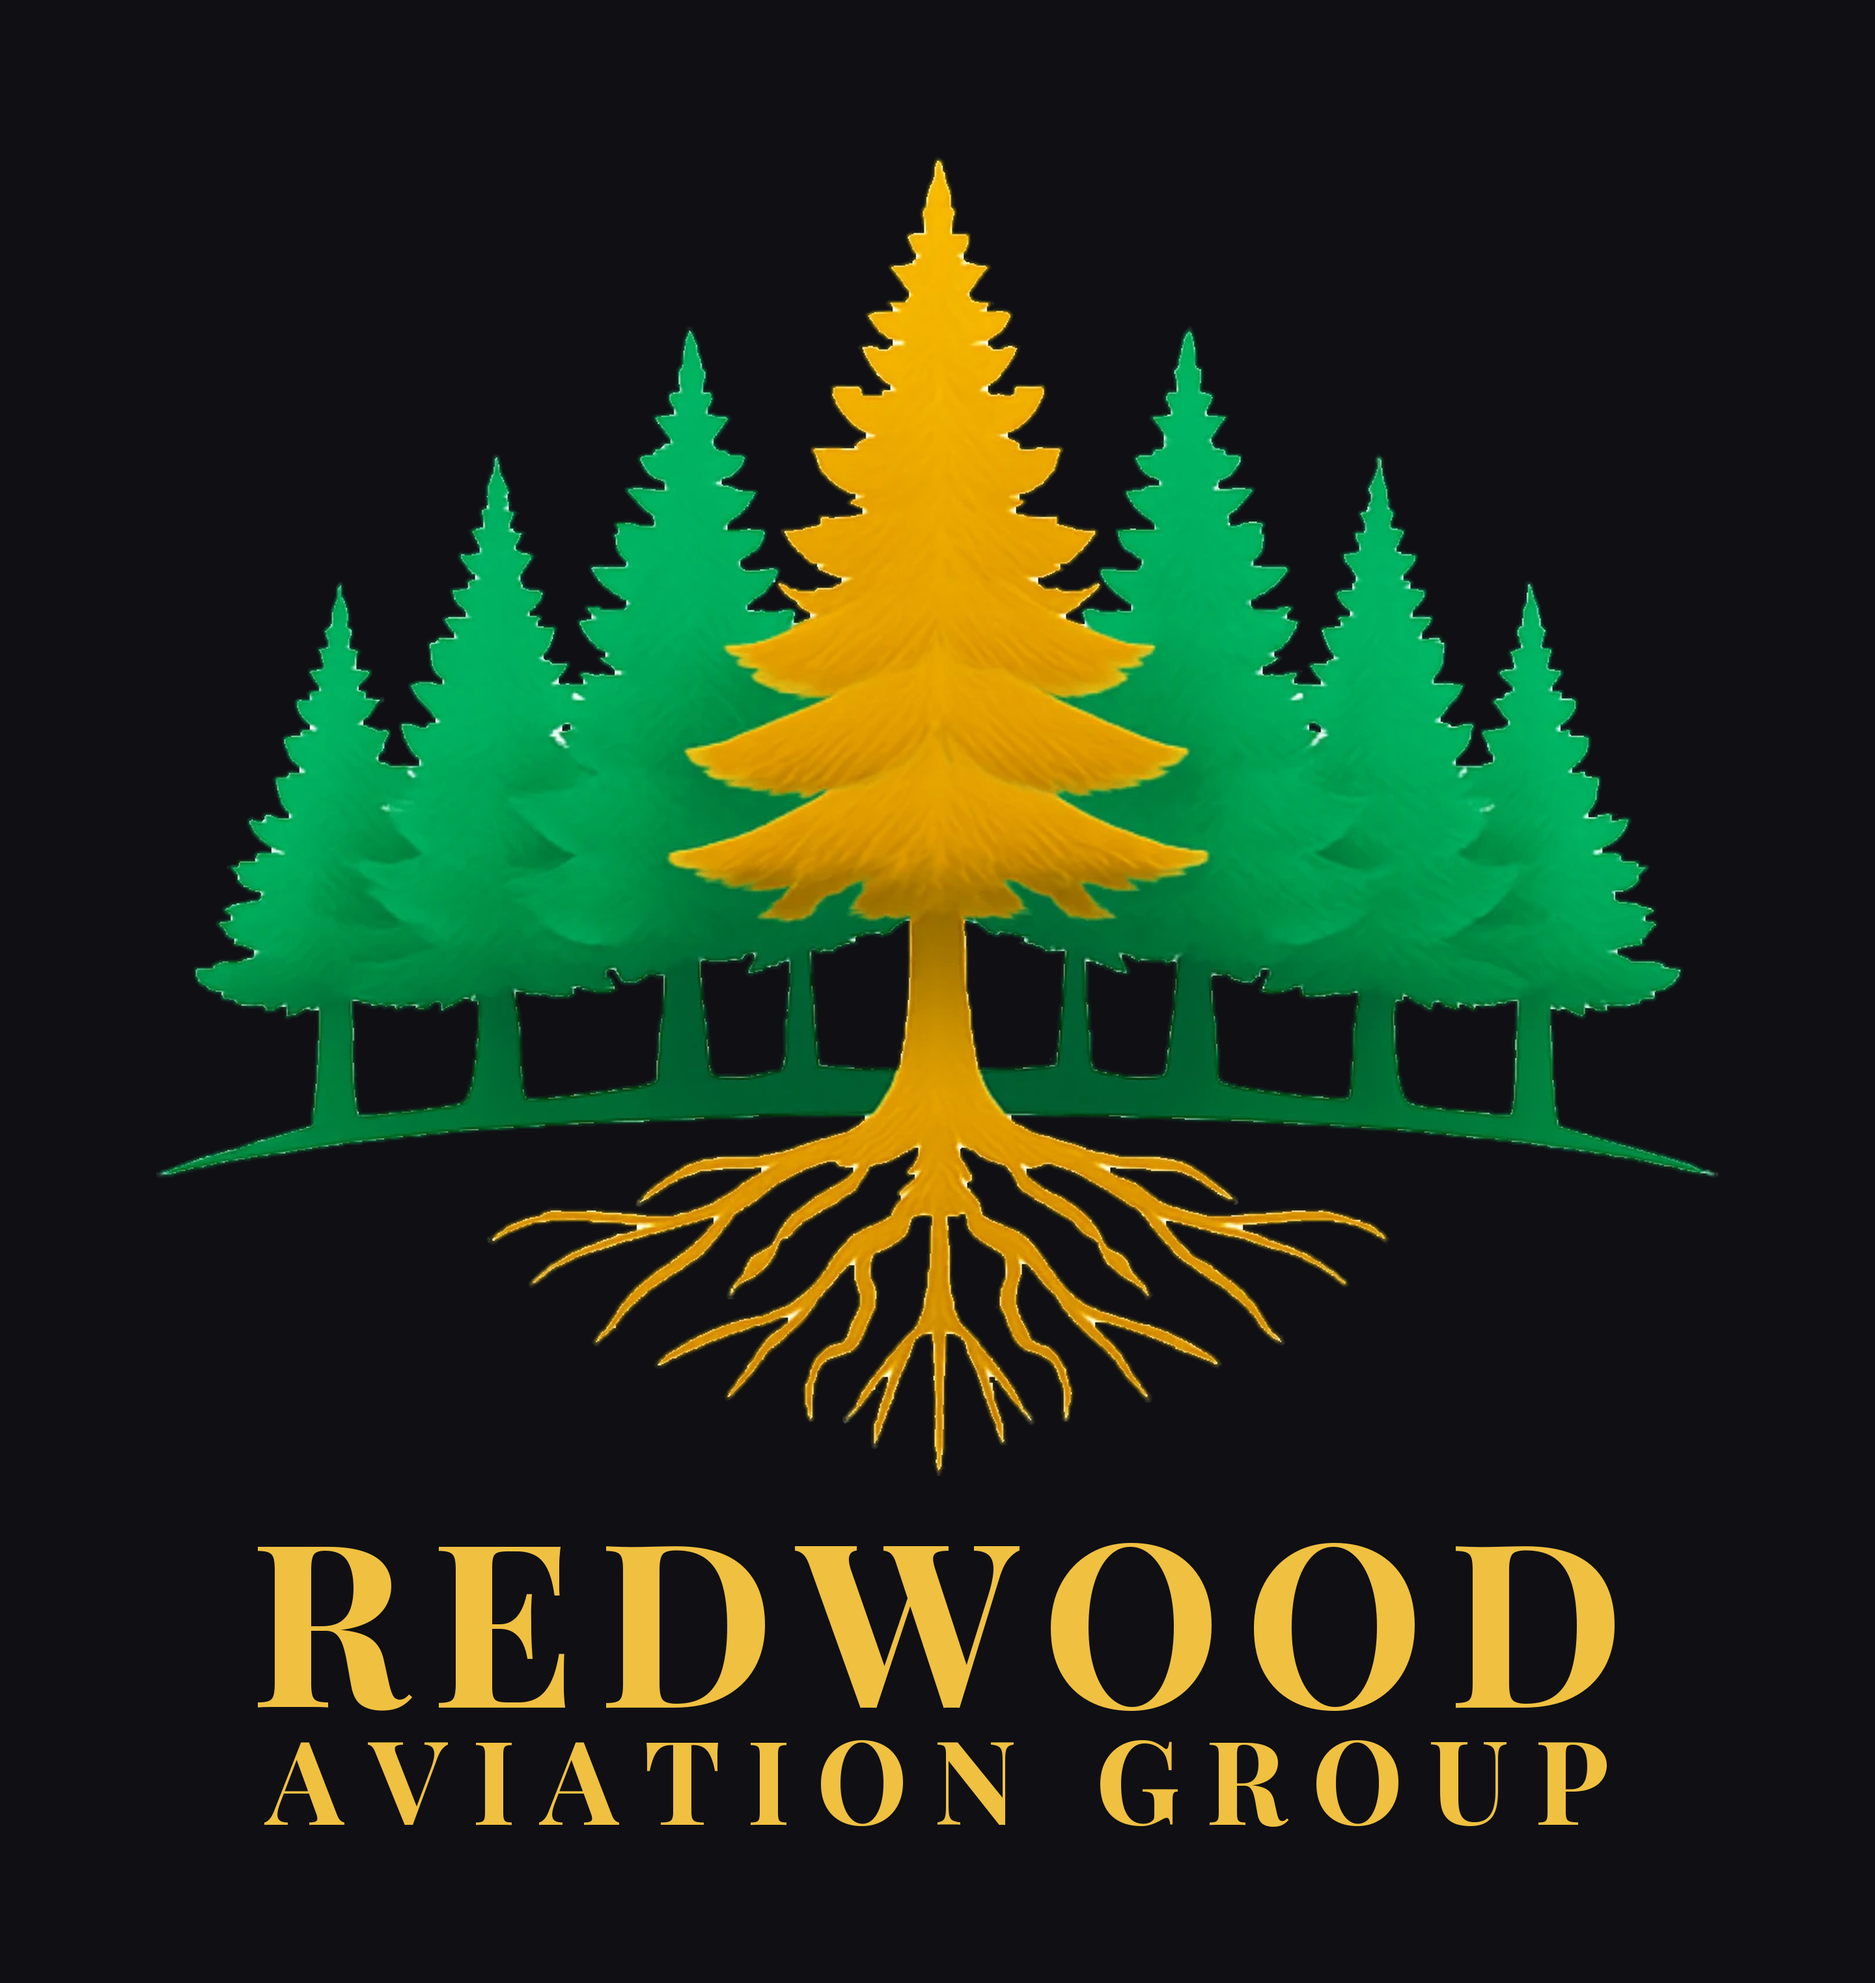
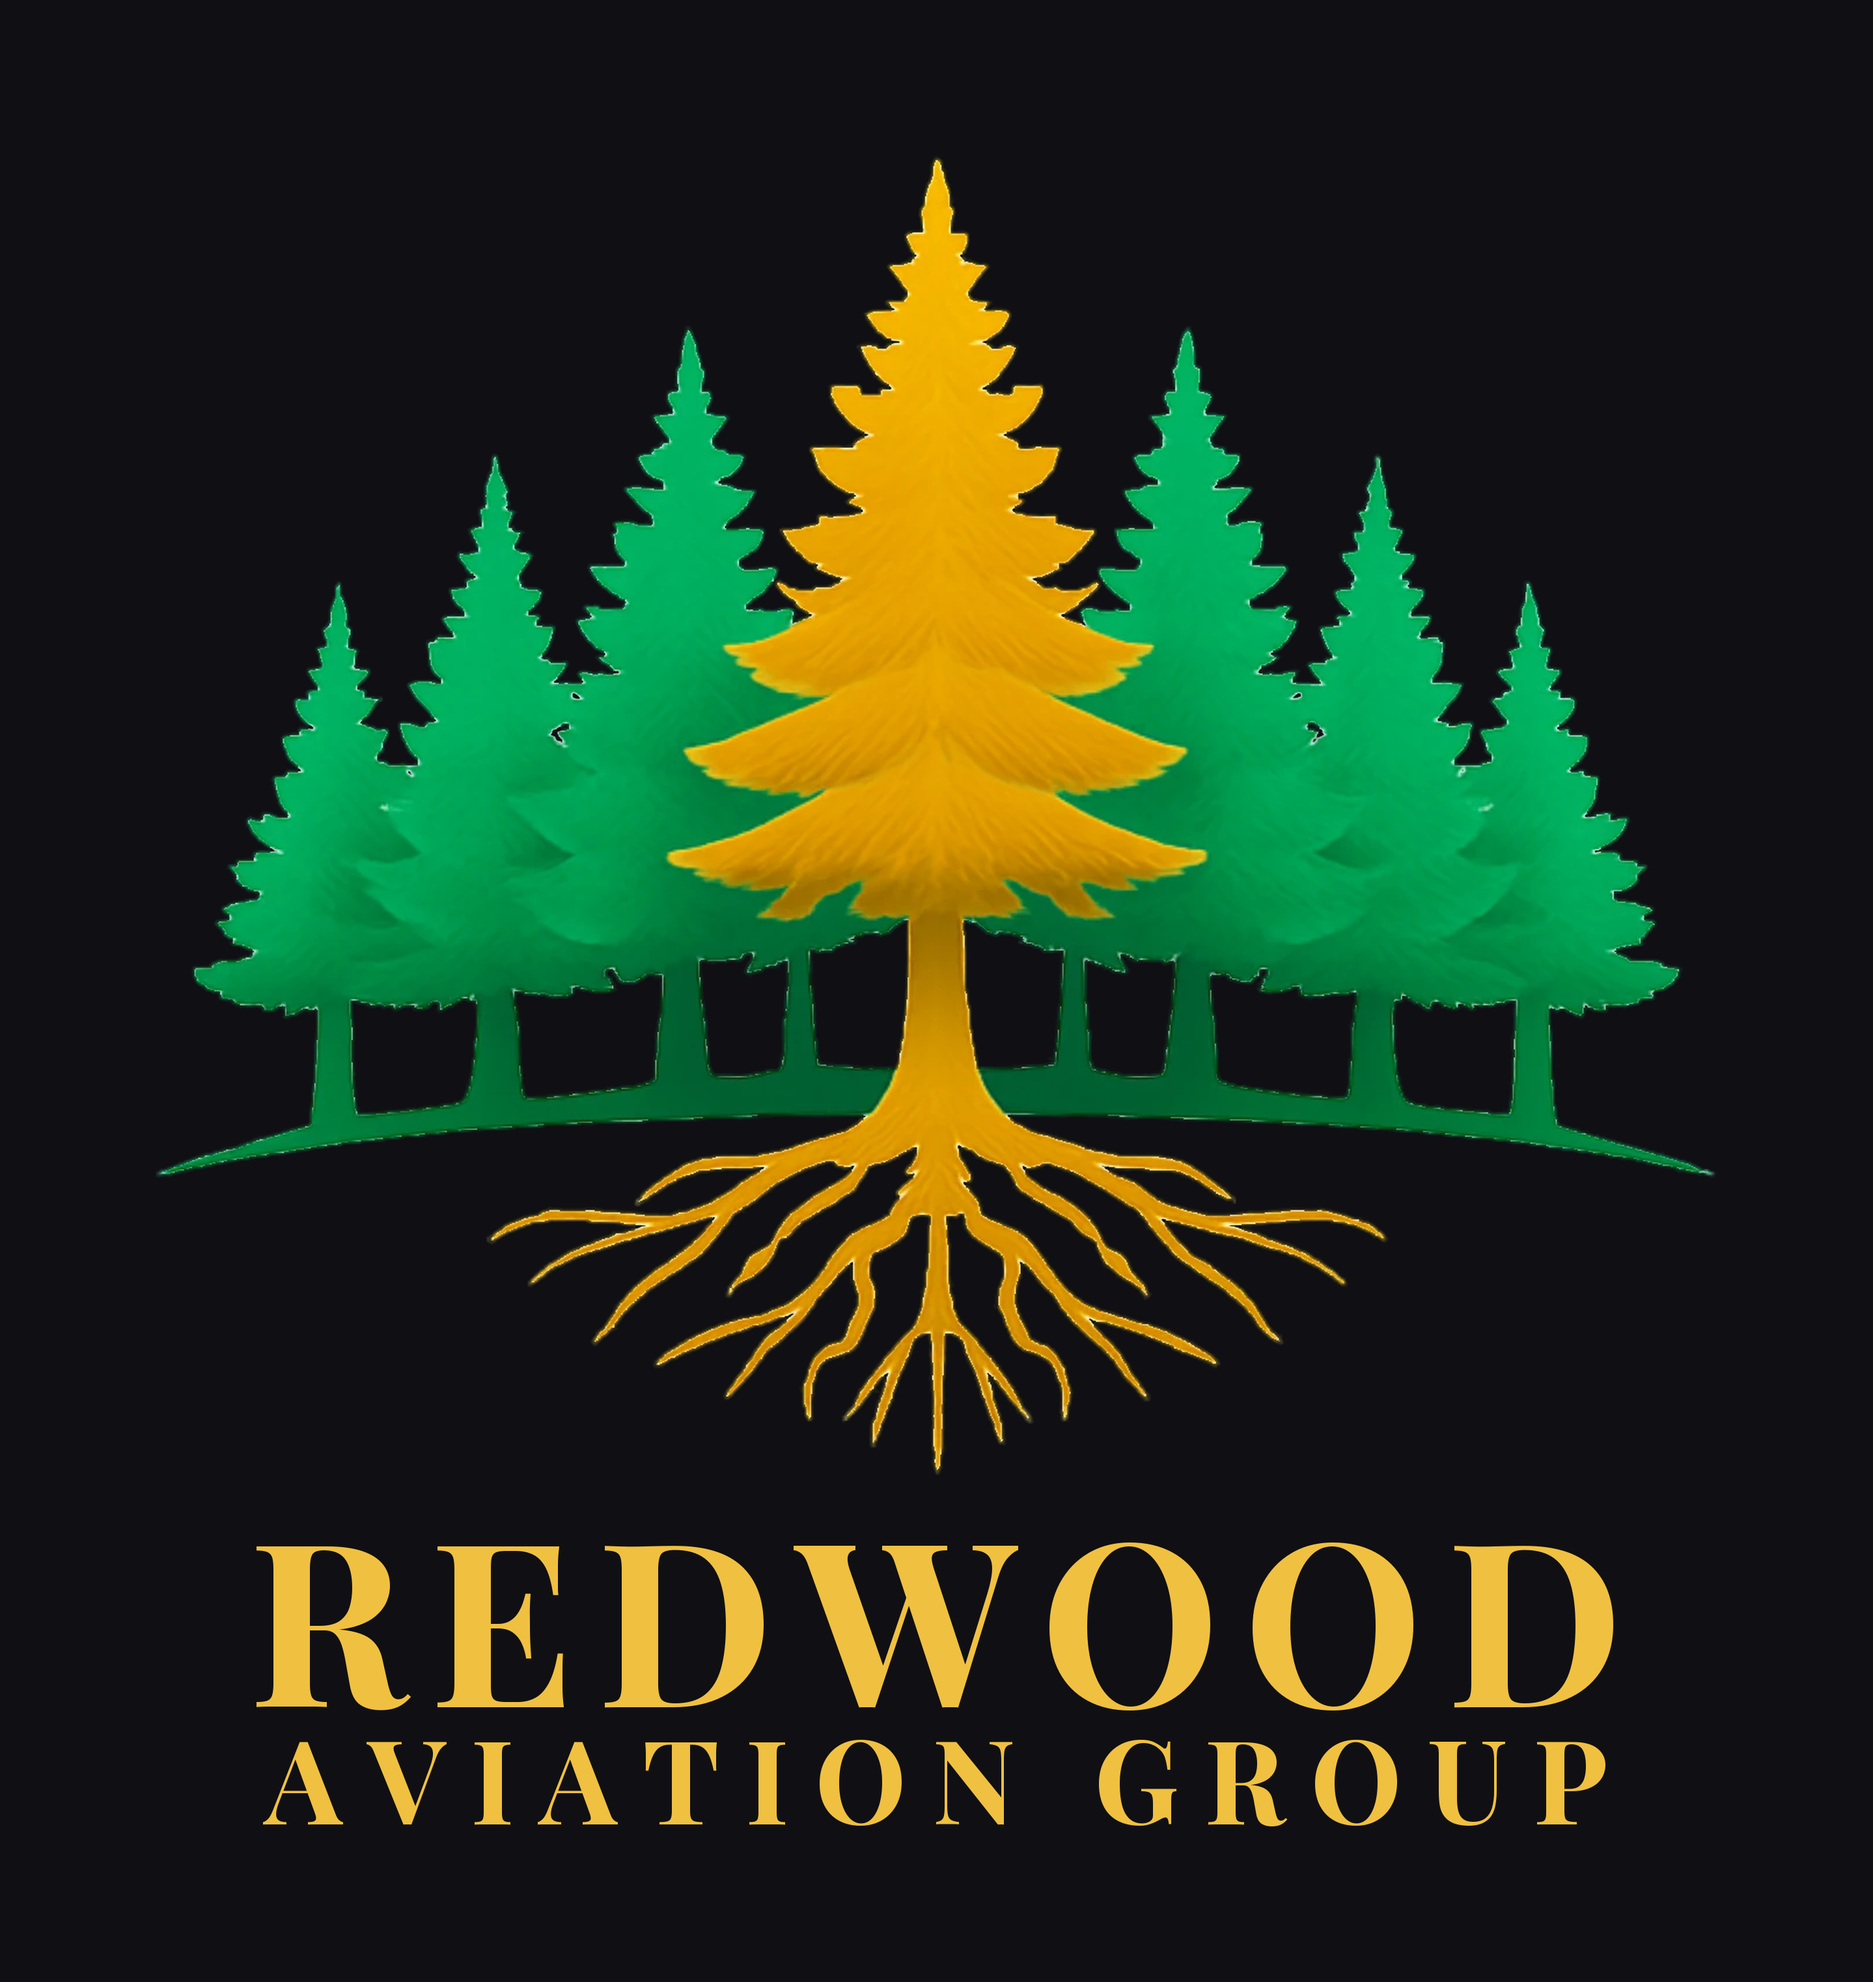
Fix white specks on branch edges; capitalize Redwoodaviationgroup.com
The background removal left 166 pure-white pixels at full opacity along branch
edges, plus ~700 washed-out ones. These were anti-aliased pixels whose alpha
estimate rounded up to opaque while the color was still background white, and
they showed as white flecks against dark garments and card stock.

Removed with a graduated filter keyed on brightness and saturation. Verified
the threshold cannot touch real artwork: genuine pixels are saturated
(chroma >= 80) even at their lightest, while the filter only acts below that.
Lanczos ringing can reintroduce pale pixels on rescale, so the same cleanup now
runs after every resample in both build scripts.

Adds build-lockups.py so every apparel lockup regenerates from mark-only.png,
and rebuilds all downstream assets from the repaired master.

Card fronts now show Redwoodaviationgroup.com with a capital R.

Claude-Session: https://claude.ai/code/session_01FPQbfY1KsD7hQipCM1oypM

diff --git a/merch/print/build-lockups.py b/merch/print/build-lockups.py
@@ -1,0 +1,108 @@
+"""Build Redwood Aviation Group apparel lockups from the master mark.
+
+Input:  merch/print/mark-only.png  (transparent pine-cluster mark, 1343x1134)
+Output: the stacked and horizontal lockups plus sized variants and proofs.
+
+Fonts (SIL Open Font License). Fetch once, then point FONT_DIR at them
+(defaults to /tmp):
+
+  curl -sSL -o /tmp/PlayfairDisplay.ttf \
+    "https://raw.githubusercontent.com/google/fonts/main/ofl/playfairdisplay/PlayfairDisplay%5Bwght%5D.ttf"
+
+Usage:
+  FONT_DIR=/path python3 build-lockups.py
+"""
+import os
+from pathlib import Path
+import numpy as np
+from PIL import Image, ImageDraw, ImageFont
+
+ART   = Path(__file__).resolve().parent
+FONTS = Path(os.environ.get("FONT_DIR", "/tmp"))
+PF    = str(FONTS/"PlayfairDisplay.ttf")
+
+GOLD = (240,192,64,255)
+
+def font(px):
+    f = ImageFont.truetype(PF, px); f.set_variation_by_axes([700]); return f
+def wof(t,f,tr): return sum(f.getlength(c) for c in t)+tr*(len(t)-1)
+def fit(text, target_w, track_em):
+    lo, hi = 10, 1400
+    for _ in range(60):
+        mid=(lo+hi)/2; f=font(int(round(mid)))
+        if wof(text,f,track_em*mid) < target_w: lo=mid
+        else: hi=mid
+    s=int(round(lo)); return font(s), track_em*s
+def tracked(d,cx,baseline,text,f,tr,fill):
+    x = cx - wof(text,f,tr)/2
+    for ch in text:
+        d.text((x,baseline),ch,font=f,fill=fill,anchor="ls"); x+=f.getlength(ch)+tr
+def cap(f): b=f.getbbox("H"); return b[3]-b[1]
+
+mark = Image.open(ART/"mark-only.png").convert("RGBA")
+
+def clean_pale(img):
+    """Drop near-white unsaturated pixels. Resampling can ring at high-contrast
+    edges and reintroduce pale fringe, so this runs after every rescale."""
+    a = np.asarray(img).astype(np.float32)
+    rgb, al = a[...,:3], a[...,3]
+    mn = rgb.min(axis=2); chroma = rgb.max(axis=2)-mn
+    ramp = lambda v,lo,hi: np.clip((v-lo)/(hi-lo),0,1)
+    factor = ramp(mn,140,200)*(1.0-ramp(chroma,40,80))
+    return Image.fromarray(np.dstack([rgb, al*(1.0-factor)]).astype(np.uint8),"RGBA")
+
+def scaled(img,w):
+    if w==img.width: return img
+    return clean_pale(img.resize((w,round(img.height*w/img.width)),Image.LANCZOS))
+
+def stacked(mark_w):
+    m = scaled(mark, mark_w); W = mark_w
+    f1,t1 = fit("REDWOOD",        0.88*W, 0.10)
+    f2,t2 = fit("AVIATION GROUP", 0.86*W, 0.22)
+    c1,c2 = cap(f1), cap(f2)
+    GAP, LGAP = int(0.045*W), int(0.42*c2)
+    CW, CH = W+2, m.height+GAP+c1+LGAP+c2+int(0.02*W)
+    c = Image.new("RGBA",(CW,CH),(0,0,0,0))
+    c.alpha_composite(m,((CW-W)//2,0))
+    d = ImageDraw.Draw(c)
+    b1 = m.height+GAP+c1
+    tracked(d,CW/2,b1,"REDWOOD",f1,t1,GOLD)
+    tracked(d,CW/2,b1+LGAP+c2,"AVIATION GROUP",f2,t2,GOLD)
+    return c.crop(c.getbbox())
+
+def horizontal():
+    MW,MH = mark.width, mark.height
+    f1,t1 = fit("REDWOOD",        0.95*MW, 0.10)
+    f2,t2 = fit("AVIATION GROUP", 0.93*MW, 0.22)
+    c1,c2 = cap(f1), cap(f2)
+    LG = int(0.42*c2); tb_h = c1+LG+c2
+    tb_w = int(max(wof("REDWOOD",f1,t1), wof("AVIATION GROUP",f2,t2)))
+    GAP = int(0.06*MW)
+    CW,CH = MW+GAP+tb_w+4, max(MH,tb_h)+4
+    c = Image.new("RGBA",(CW,CH),(0,0,0,0))
+    c.alpha_composite(mark,(0,(CH-MH)//2))
+    d = ImageDraw.Draw(c)
+    top = (CH-tb_h)//2; cx = MW+GAP+tb_w/2
+    tracked(d,cx,top+c1,"REDWOOD",f1,t1,GOLD)
+    tracked(d,cx,top+c1+LG+c2,"AVIATION GROUP",f2,t2,GOLD)
+    return c.crop(c.getbbox())
+
+if __name__=="__main__":
+    big = stacked(2400)                      # 8in wide @300dpi
+    big.save(ART/"lockup-8in-300dpi.png")
+    stacked(mark.width).save(ART/"lockup-native.png")
+    scaled(big,1050).save(ART/"lockup-leftchest-3.5in.png")
+
+    h = horizontal()
+    h.save(ART/"lockup-horizontal.png")
+    scaled(h,1350).save(ART/"lockup-horizontal-cap-4.5in.png")
+
+    for name,bg in (("black","#101014"),("charcoal","#2f3033")):
+        p = int(big.width*0.10)
+        s = Image.new("RGBA",(big.width+2*p,big.height+2*p),bg)
+        s.alpha_composite(big,(p,p))
+        s.convert("RGB").save(ART/f"proof-{name}.png")
+
+    print("stacked 8in :", big.size)
+    print("horizontal  :", h.size, "(%.2f:1)"%(h.width/h.height))
+    print("all lockups rebuilt from mark-only.png")

diff --git a/merch/cards/build-cards.py b/merch/cards/build-cards.py
@@ -21,6 +21,7 @@ Usage:
 """
 import os
 from pathlib import Path
+import numpy as np
 from PIL import Image, ImageDraw, ImageFont
 
 REPO  = Path(__file__).resolve().parents[2]
@@ -58,8 +59,17 @@ def cap(f): b=f.getbbox("H"); return b[3]-b[1]
 mark  = Image.open(ART/"mark-only.png").convert("RGBA")
 lockh = Image.open(ART/"lockup-horizontal.png").convert("RGBA")
 
+def clean_pale(img):
+    """Drop near-white unsaturated pixels that resampling can ring into existence."""
+    a=np.asarray(img).astype(np.float32); rgb,al=a[...,:3],a[...,3]
+    mn=rgb.min(axis=2); chroma=rgb.max(axis=2)-mn
+    ramp=lambda v,lo,hi: np.clip((v-lo)/(hi-lo),0,1)
+    factor=ramp(mn,140,200)*(1.0-ramp(chroma,40,80))
+    return Image.fromarray(np.dstack([rgb, al*(1.0-factor)]).astype(np.uint8),"RGBA")
+
 def fit_w(img,inches):
-    w=int(inches*DPI); return img.resize((w,round(img.height*w/img.width)),Image.LANCZOS)
+    w=int(inches*DPI)
+    return clean_pale(img.resize((w,round(img.height*w/img.width)),Image.LANCZOS))
 
 # ---------------- BACK ----------------
 def build_back():

diff --git a/merch/MERCH-SPEC.md b/merch/MERCH-SPEC.md
@@ -7,14 +7,15 @@ First run: **sweatshirts, black/charcoal, stacked lockup, full-front print.**
 
 | File | Size (px) | Use |
 | ---- | --------- | --- |
-| `lockup-8in-300dpi.png` | 2400 × 2566 | **Send this to the printer.** Full lockup, transparent, sized for an 8 in wide print at 300 DPI. |
+| `lockup-8in-300dpi.png` | 2399 × 2566 | **Send this to the printer.** Full lockup, transparent, sized for an 8 in wide print at 300 DPI. |
 | `lockup-native.png` | 1343 × 1435 | Same lockup with the mark at its true native resolution, never upscaled. For a printer who prefers to scale it themselves. |
-| `mark-only.png` | 1343 × 1134 | Trees alone, transparent. For hats, sleeves, favicons, stickers. |
+| `mark-only.png` | 1343 × 1134 | Trees alone, transparent. **Master artwork** — everything else is built from it. |
 | `lockup-leftchest-3.5in.png` | 1050 × 1123 | Stacked lockup for a **left-chest** print at 3.5 × 3.74 in, 300 DPI. |
 | `lockup-horizontal.png` | 2686 × 1134 | Horizontal lockup (mark left, wordmark right), 2.37 : 1. Master file — scale down as needed. |
 | `lockup-horizontal-cap-4.5in.png` | 1350 × 570 | Horizontal lockup sized for a **cap front**: 4.5 × 1.9 in, 300 DPI. |
 | `proof-black.png` | — | Visual proof on black. Not for printing. |
 | `proof-charcoal.png` | — | Visual proof on charcoal. Not for printing. |
+| `build-lockups.py` | — | Rebuilds every lockup above from `mark-only.png`. |
 
 ### Placement guide
 
@@ -105,6 +106,14 @@ designed with no rework and no minimums.
   this** — the ceiling is in the artwork, not the export plan. Don't upgrade for this.
 - White background removed locally with per-pixel alpha estimation and
   white-unpremultiply, so edges carry no light fringe on dark garments.
+- **Speck repair:** the first background removal left 166 pure-white pixels at
+  full opacity along branch edges — anti-aliased pixels whose alpha rounded up
+  to opaque while the color was still background white. They showed as white
+  flecks on dark garments. Now removed with a graduated filter keyed on
+  brightness and saturation. Real artwork is always saturated (chroma ≥ 80)
+  even at its lightest, so the filter cannot touch it. Rescaling can ring pale
+  pixels back into existence, so the same cleanup runs after every resample in
+  both build scripts.
 - Minor caveat: the file transited as lossy WebP, so there is slight compression
   in flat areas. Measured impact is ~0.2% of pixels and is irrelevant at print
   scale on fabric.
